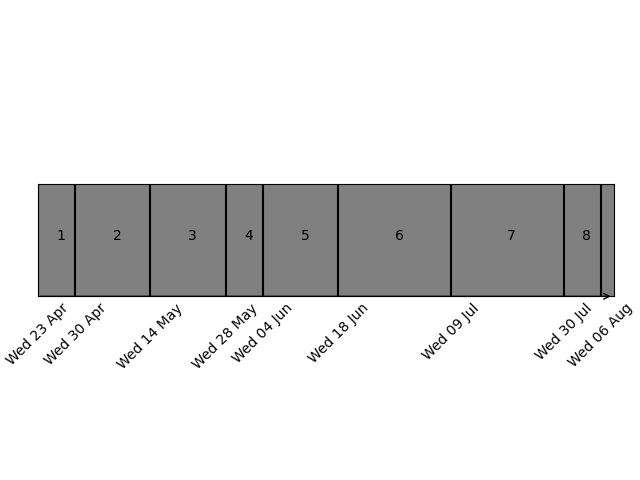
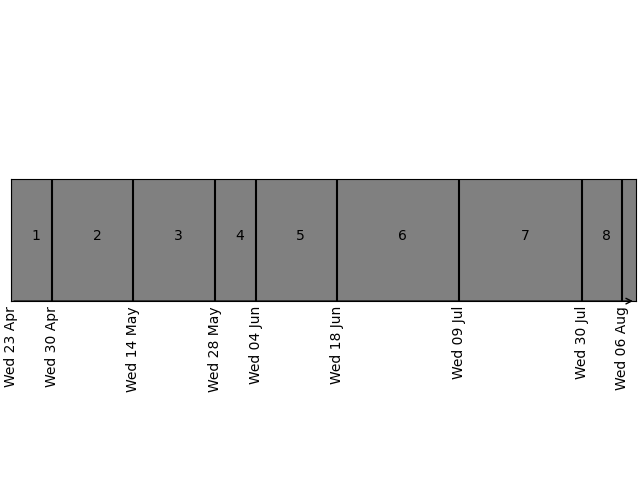
test

diff --git a/draw_timeline.py b/draw_timeline.py
@@ -42,7 +42,7 @@ def draw_timeline(start_date,durations):
 	
 	#draw the labels of both axes
 	ax.set_xticks(x_coords)
-	ax.set_xticklabels(xlabels,rotation=45)
+	ax.set_xticklabels(xlabels,rotation=90)
 	ax.tick_params(axis='x',length=0)
 	ax.yaxis.set_visible(False)
 
